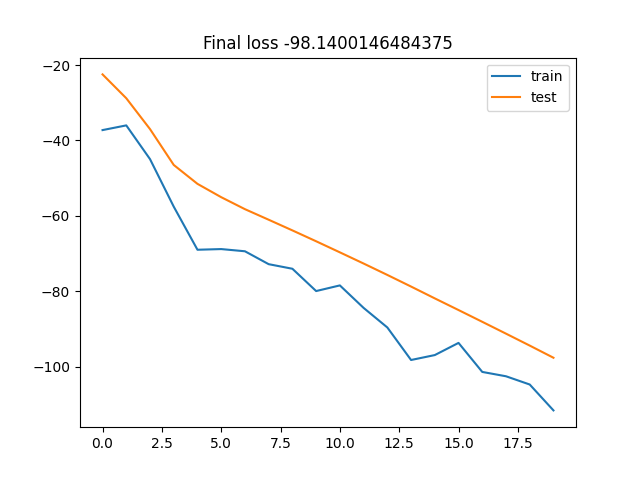
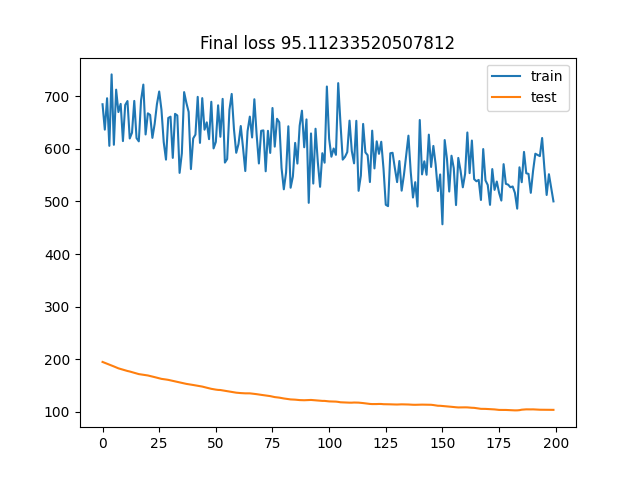
Add files via upload

diff --git a/utils.py b/utils.py
@@ -37,31 +37,23 @@ def get_batch(fund_ticker):
         stock_prices[ticker] = yf.download(f'{ticker}')
     
     max_window = np.array([stock_prices[c]["Close"].shape for c in etf_comp]).min()
+    print(f"Training with {max_window} days of data")
     X = np.array([stock_prices[c]["Close"].iloc[-max_window:] for c in etf_comp]).T
     y = etf_price["Close"].iloc[-max_window:].to_numpy()
     return X, y
 
-def create_windows(X, y, window_length=20, lookahead=5, shift=1, sample_rate=1, stagger=0):
+def create_windows(X, y, window_length=20, lookahead=5, shift=1, sample_rate=1):
     """
     Create windows of length window_length. shift is the interval between each window and sample rate is the interval 
     between each reading within a window. For example you can use a window of 60 readings but downsample by 2 so you 
     effectively get only 30 measurements in the same period of time. Stagger is the space between two windows if 
     choosing to use staggered pairs of windows. Lookahead is the gap between the target and the end of the training example time series.
     """
-    if window_length == 1:
-        return X, y
+    Xs, ys = [], []    
     
-    Xs, ys = [], []
-    if stagger:
-        for i in range(0, len(X) - window_length - stagger, shift):
-            Xs.append(np.r_[X[i:i + window_length:sample_rate],X[i + stagger:i + window_length + stagger:sample_rate]])
-            ys.append(scipy.stats.mode(y[i: i + window_length + stagger])[0])
-    
-    elif not stagger:
-        breakpoint()
-        for i in range(0, len(X) - window_length, shift):
-            Xs.append(X[i:(i + window_length):sample_rate])
-            ys.append(scipy.stats.mode(y[i: i + window_length])[0])
+    for i in range(0, len(X) - window_length - lookahead, shift):
+        Xs.append(X[i:i + window_length:sample_rate])
+        ys.append(y[i + window_length + lookahead])
 
     return np.array(Xs), np.array(ys).reshape(-1, 1)
 
@@ -75,18 +67,18 @@ def LSTM_model(X_train, y_train):
     model.add(keras.layers.LSTM(units=5, input_shape=[X_train.shape[1], X_train.shape[2]]))
     model.add(keras.layers.Dropout(rate=0.5))
     model.add(keras.layers.Dense(units=5, activation='relu'))
-    model.add(keras.layers.Dense(y_train.shape[1], activation='linear'))
-    model.compile(loss='mse', optimizer='adam', metrics=['acc'])
+    model.add(keras.layers.Dense(y_train.shape[1], activation='relu'))
+    model.compile(loss='mse', optimizer='adam')
     return model
 
-def fit_evaluate_LSTM(X_train, y_train, X_test, y_test, model, name):
+def fit_evaluate_LSTM(X_train, y_train, X_test, y_test, model, name, epochs=200):
     """
     Fit training data for 20 epochs. For a final model please change this to at least 100 epochs to ensure it converges to maximum
     possible accuracy. Also does inference on test set, and uses the output and the ground truth to calculate accuracy and plot confusion.
     Also plots training and validation loss as a function of number of iterations.
     """
 
-    history = model.fit(X_train, y_train, epochs=20, batch_size=64, validation_split=0.1)
+    history = model.fit(X_train, y_train, epochs=epochs, batch_size=64, validation_split=0.1)
     loss, accuracy = model.evaluate(X_test, y_test)
     y_pred = model.predict(X_test)
 
@@ -96,11 +88,4 @@ def fit_evaluate_LSTM(X_train, y_train, X_test, y_test, model, name):
     plt.legend()
     plt.title(f"Final loss {loss}")
     plt.savefig(f"figures/{name}_loss.png")
-
-    cm = confusion_matrix(y_test, np.round(y_pred))
-    cm_display = ConfusionMatrixDisplay(confusion_matrix=cm)
-    plt.figure()
-    cm_display.plot()
-    cm_display.ax_.set_title(f"Accuracy {accuracy}")
-    plt.savefig(f"figures/{name}_cm.png")
-    print(f"Trained, evaulated {name} model and created confusion matrix at figures/{name}_cm.png\n")
+    print(f"Trained, evaulated {name} model and plotted loss at figures/{name}_loss.png\n")

diff --git a/main.py b/main.py
@@ -1,14 +1,10 @@
 from utils import *
 
 fund_ticker = "xlu"
-days = 100
-start_date = (datetime.now() - timedelta(days=5) - timedelta(days=days)).strftime('%Y-%m-%d')
-end_date = (datetime.now() - timedelta(days=5)).strftime('%Y-%m-%d')
 
-X, y = get_batch(fund_ticker=fund_ticker)
+X, y = get_batch(fund_ticker)
 X, y = create_windows(X, y)
 X_train, X_test, y_train, y_test = train_test_split(X, y, test_size=0.1)
-breakpoint()
+
 model = LSTM_model(X_train, y_train)
 fit_evaluate_LSTM(X_train, y_train, X_test, y_test, model, "LSTM")
-breakpoint()
